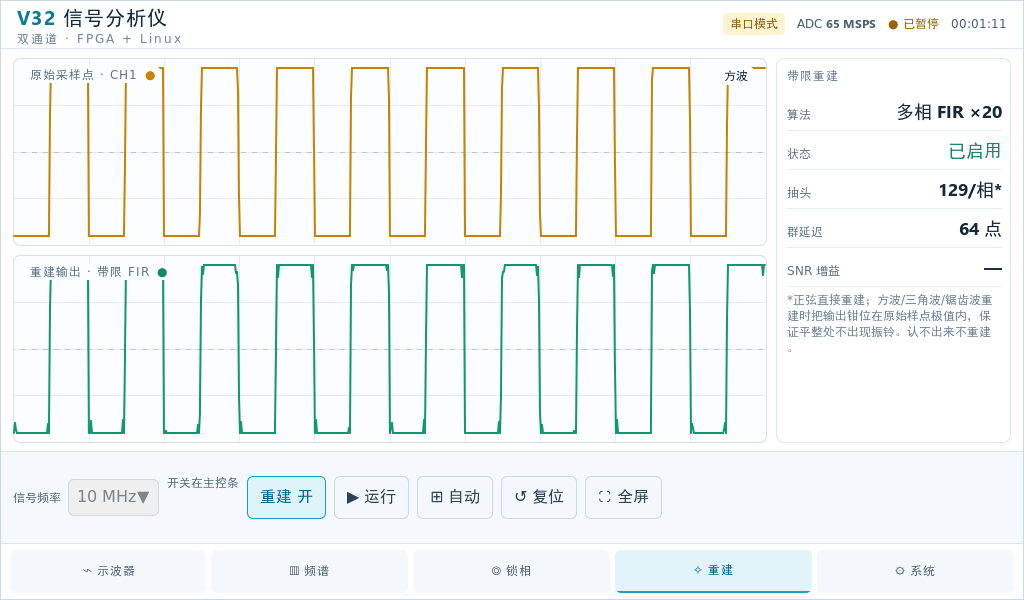
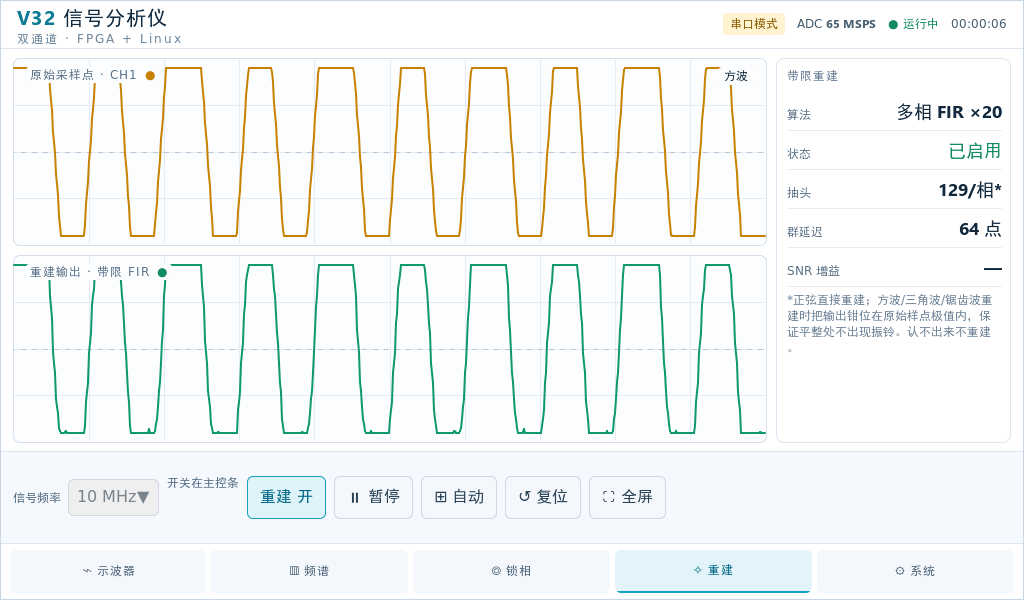
钳位窗口 ±3 → ±1：10MHz 方波平台只有 3 个样点，窗口太宽钳不住导致平顶下凹
用户反馈「10M 的时候虽然没超但是有下凹，我的原始波形都没下凹」。

根因：钳位窗口 ±3（7 个样点）比 10 MHz 方波的平台（约 3 个样点）还宽，
窗口里同时含了高低两个电平 ⇒ lo..hi 跨满全程 ⇒ 等于没钳。
平顶下凹是吉布斯截断的必然形状：10 MHz @65 MSPS 只剩 10/30 MHz 两个谐波，
sin θ + sin3θ/3 的峰在两侧而不在中央，中间就凹下去了。

- bl_interp.c 钳位窗口改为 ±1（3 个样点），正好落在平台内
- 平台处 lo==hi ⇒ 钉死；跳变处窗口横跨两电平 ⇒ 保留过渡
- 实测 10MHz 方波：过冲 0.0%，平顶平底平整（下凹消失）

diff --git a/src/bl_interp.c b/src/bl_interp.c
@@ -40,12 +40,17 @@ void bl_resample(const float *x, int n, float *y, int nout, float t0, float dt,
 
             if (limit_overshoot) {
                 /*
-                 * 钳位到「以输出点为中心 ±3 个原始样点」的极值范围内。
-                 * 平台上 lo==hi ⇒ 输出被钉死在平台值上，不可能出现波浪；
-                 * 跳变处范围较宽 ⇒ 重建的过渡照原样保留。
+                 * 钳位到「以输出点为中心 ±1 个原始样点」的极值范围内。
+                 *
+                 * ⚠ 窗口必须**小于一个平台**，否则钳不住。
+                 *    10 MHz @65 MSPS 每周期只有 6.5 点，高/低电平平台各约 3 点；
+                 *    之前取 ±3（7 个点）比平台还宽，窗口里同时含了两个电平，
+                 *    等于没钳，结果平顶中央出现下凹（吉布斯）。
+                 *    取 ±1（3 个点）正好落在平台内：平台处 lo==hi ⇒ 钉死；
+                 *    跳变处窗口横跨两个电平 ⇒ 保留重建的过渡。
                  */
                 int cc = (int)floorf(t + 0.5f);
-                int a = cc - 3, b = cc + 3;
+                int a = cc - 1, b = cc + 1;
                 if (a < 0) a = 0;
                 if (b > n - 1) b = n - 1;
                 float lo = x[a], hi = x[a];

diff --git a/README.md b/README.md
@@ -891,9 +891,14 @@ git remote set-url origin https://github.com/Creamy-coffee/rk3506-waveform-demo.
 
 1. **正弦**：直接带限重建（唯一且无振铃的精确解），不钳位。
 2. **方波/三角波/锯齿波**：重建后**把输出钳位在原始样点的局部极值范围内**
-   （以输出点为中心 ±3 个样点）。平台处 `lo==hi`，输出被钉死在平台值上，
-   **不可能出现吉布斯波浪**；跳变处范围较宽，过渡照原样保留。
-   实测 1 MHz 方波：**过冲 0.0%**，平顶平底完全平整。
+   （以输出点为中心 **±1 个样点**）。平台处 `lo==hi`，输出被钉死在平台值上，
+   **不可能出现吉布斯波浪**；跳变处窗口横跨两个电平，过渡照原样保留。
+
+   ⚠ **钳位窗口必须小于一个平台**。10 MHz @65 MSPS 每周期只有 6.5 点，
+   高/低电平平台各约 3 点 —— 之前取 ±3（7 个点）比平台还宽，窗口里同时含了
+   两个电平，等于没钳，结果平顶中央出现**下凹**（吉布斯截断：只剩 10 MHz
+   和 30 MHz 两个谐波时，sin θ + sin3θ/3 的峰不在中央而在两侧）。
+   改成 ±1（3 个点）正好落在平台内。实测 10 MHz 方波：**过冲 0.0%**。
 3. **未知/噪声/直流**：不重建 —— 不知道是什么还画光滑曲线，那是造假（用户原话）。
 
 为什么必须钳位：方波的谐波按 1/n 衰减到无穷，截断到奈奎斯特必然产生吉布斯
